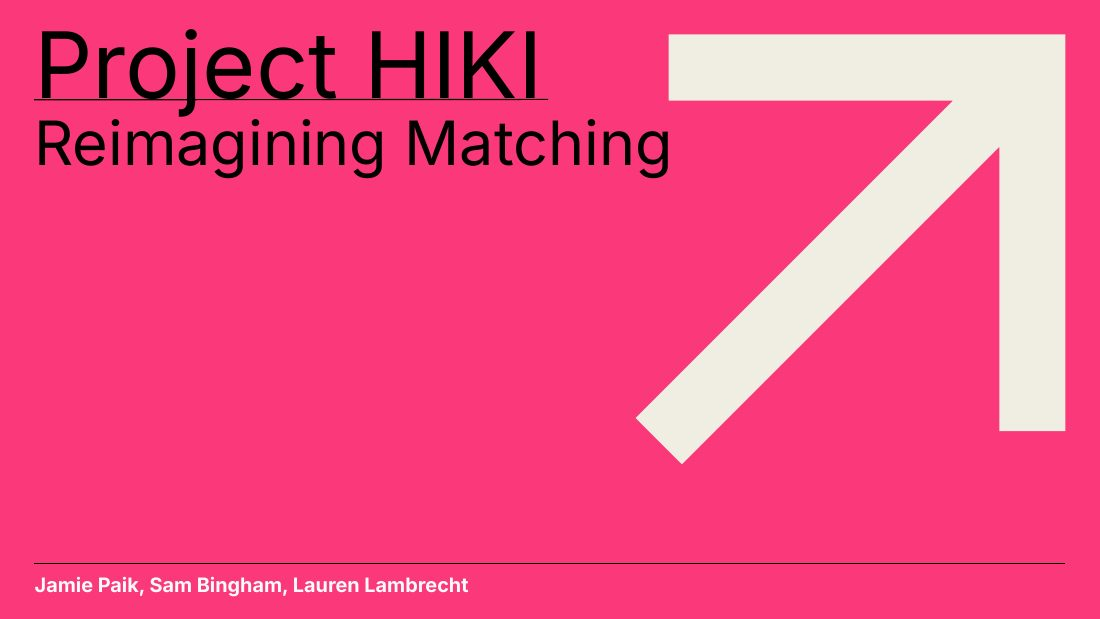
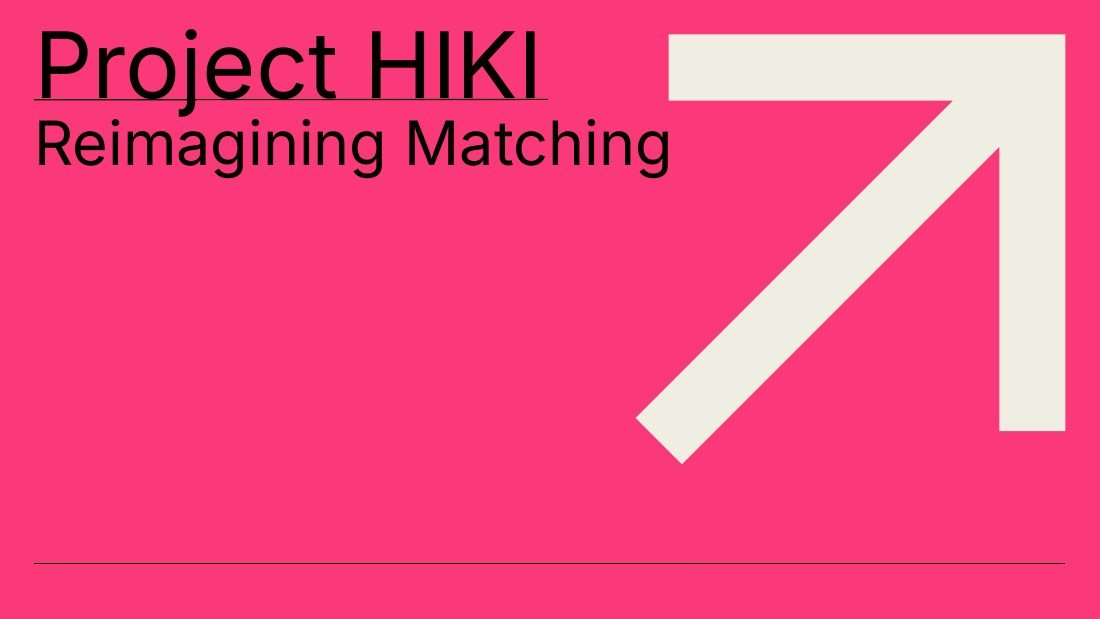
Hiki: remove names from title slide
Claude-Session: https://claude.ai/code/session_01LupimvDmJC23F5Xo1uMZ6X

Changed region(s): [[0.0309, 0.9208, 0.4327, 0.9822]]

diff --git a/content.js b/content.js
@@ -401,7 +401,7 @@ window.CONTENT = {
             { t: "Novelty", d: "Daily prompts felt fun and closer to getting to know someone in person." },
           ],
           slides: [
-            { src: "assets/projects/hiki-deck/slide-01.jpg", alt: "Title slide: Project HIKI, Reimagining Matching, by Jamie Paik, Sam Bingham and Lauren Lambrecht" },
+            { src: "assets/projects/hiki-deck/slide-01.jpg", alt: "Title slide: Project HIKI, Reimagining Matching" },
             { src: "assets/projects/hiki-deck/slide-03.jpg", alt: "Key Nuggets: a say, think, do, feel map of interview quotes" },
             { src: "assets/projects/hiki-deck/slide-04.jpg", alt: "POV slide: Jamie's user, need and insight" },
             { src: "assets/projects/hiki-deck/slide-05.jpg", alt: "Initial idea generation: How Might We boards covered in sticky notes" },
